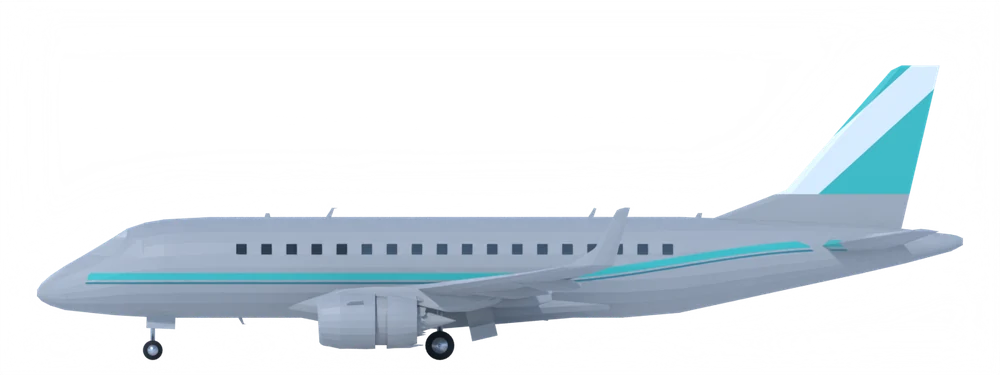
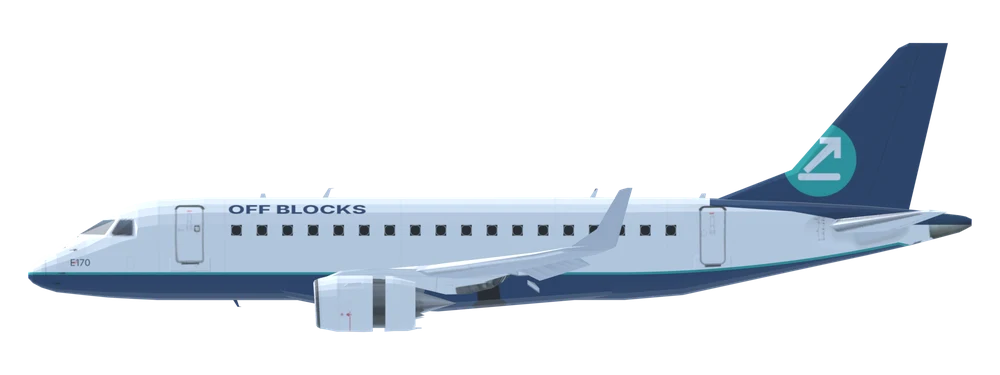
E-Jet family renders (E170/175/190/195/E190-E2/E195-E2) with Off Blocks livery
Claude-Session: https://claude.ai/code/session_01XrFePU9h1hCzy7p7tSHsYD

Changed region(s): [[0.031, 0.1173, 0.992, 0.968]]

diff --git a/sw.js b/sw.js
@@ -1,5 +1,5 @@
 /* Off Blocks service worker. Bump VER to push an update to installed copies. */
-const VER='ob-v45',CORE=["./", "index.html", "manifest.webmanifest", "network.json", "icons/icon-192.png", "icons/icon-512.png", "mapimg/detail.json", "mapimg/sat.webp", "mapimg/terrain.webp", "img/A19N.webp", "img/A19N_side.webp", "img/A20N.webp", "img/A20N_side.webp", "img/A21N.webp", "img/A21N_side.webp", "img/A21X.webp", "img/A21X_side.webp", "img/A306_side.webp", "img/A310.webp", "img/A310_side.webp", "img/A318.webp", "img/A318_side.webp", "img/A319.webp", "img/A319_side.webp", "img/A320.webp", "img/A320_side.webp", "img/A321.webp", "img/A321_side.webp", "img/A332_side.webp", "img/A333_side.webp", "img/A338.webp", "img/A338_side.webp", "img/A339.webp", "img/A339_side.webp", "img/A343_side.webp", "img/A346_side.webp", "img/A359_side.webp", "img/A35K.webp", "img/A35K_side.webp", "img/A388_side.webp", "img/AN24.webp", "img/AR21.webp", "img/AT42_side.webp", "img/AT76_side.webp", "img/B190.webp", "img/B37M.webp", "img/B37M_side.webp", "img/B38M.webp", "img/B38M_side.webp", "img/B39M.webp", "img/B39M_side.webp", "img/B3XM.webp", "img/B3XM_side.webp", "img/B712.webp", "img/B712_side.webp", "img/B722_side.webp", "img/B732.webp", "img/B732_side.webp", "img/B733_side.webp", "img/B734_side.webp", "img/B735.webp", "img/B735_side.webp", "img/B736_side.webp", "img/B737_side.webp", "img/B738_side.webp", "img/B739_side.webp", "img/B744_side.webp", "img/B748_side.webp", "img/B752.webp", "img/B752_side.webp", "img/B753.webp", "img/B753_side.webp", "img/B762.webp", "img/B762_side.webp", "img/B763_side.webp", "img/B764.webp", "img/B764_side.webp", "img/B772_side.webp", "img/B773.webp", "img/B773_side.webp", "img/B779.webp", "img/B779_side.webp", "img/B77L_side.webp", "img/B77W_side.webp", "img/B788_side.webp", "img/B789_side.webp", "img/B78X_side.webp", "img/BCS1_side.webp", "img/BCS3_side.webp", "img/C208.webp", "img/C208_side.webp", "img/C919.webp", "img/C919_side.webp", "img/CRJ2.webp", "img/CRJ2_side.webp", "img/CRJ7_side.webp", "img/CRJ9.webp", "img/CRJ9_side.webp", "img/CRJX_side.webp", "img/D328.webp", "img/DH8A.webp", "img/DH8A_side.webp", "img/DH8C_side.webp", "img/DH8D_side.webp", "img/DHC6_side.webp", "img/E120.webp", "img/E120_side.webp", "img/E135.webp", "img/E135_side.webp", "img/E140.webp", "img/E140_side.webp", "img/E145.webp", "img/E145_side.webp", "img/E170_side.webp", "img/E175_side.webp", "img/E190_side.webp", "img/E195.webp", "img/E195_side.webp", "img/E290_side.webp", "img/E295.webp", "img/E295_side.webp", "img/E75X.webp", "img/E75X_side.webp", "img/F100.webp", "img/F100_side.webp", "img/F50.webp", "img/F50_side.webp", "img/F70.webp", "img/F70_side.webp", "img/J41.webp", "img/L410.webp", "img/L410_side.webp", "img/MA60.webp", "img/MD83.webp", "img/MD83_side.webp", "img/MD90.webp", "img/MD90_side.webp", "img/RJ1H.webp", "img/RJ1H_side.webp", "img/RJ85.webp", "img/RJ85_side.webp", "img/SB20.webp", "img/SF34_side.webp", "img/T154.webp", "img/T154_side.webp"];
+const VER='ob-v46',CORE=["./", "index.html", "manifest.webmanifest", "network.json", "icons/icon-192.png", "icons/icon-512.png", "mapimg/detail.json", "mapimg/sat.webp", "mapimg/terrain.webp", "img/A19N.webp", "img/A19N_side.webp", "img/A20N.webp", "img/A20N_side.webp", "img/A21N.webp", "img/A21N_side.webp", "img/A21X.webp", "img/A21X_side.webp", "img/A306_side.webp", "img/A310.webp", "img/A310_side.webp", "img/A318.webp", "img/A318_side.webp", "img/A319.webp", "img/A319_side.webp", "img/A320.webp", "img/A320_side.webp", "img/A321.webp", "img/A321_side.webp", "img/A332_side.webp", "img/A333_side.webp", "img/A338.webp", "img/A338_side.webp", "img/A339.webp", "img/A339_side.webp", "img/A343_side.webp", "img/A346_side.webp", "img/A359_side.webp", "img/A35K.webp", "img/A35K_side.webp", "img/A388_side.webp", "img/AN24.webp", "img/AR21.webp", "img/AT42_side.webp", "img/AT76_side.webp", "img/B190.webp", "img/B37M.webp", "img/B37M_side.webp", "img/B38M.webp", "img/B38M_side.webp", "img/B39M.webp", "img/B39M_side.webp", "img/B3XM.webp", "img/B3XM_side.webp", "img/B712.webp", "img/B712_side.webp", "img/B722_side.webp", "img/B732.webp", "img/B732_side.webp", "img/B733_side.webp", "img/B734_side.webp", "img/B735.webp", "img/B735_side.webp", "img/B736_side.webp", "img/B737_side.webp", "img/B738_side.webp", "img/B739_side.webp", "img/B744_side.webp", "img/B748_side.webp", "img/B752.webp", "img/B752_side.webp", "img/B753.webp", "img/B753_side.webp", "img/B762.webp", "img/B762_side.webp", "img/B763_side.webp", "img/B764.webp", "img/B764_side.webp", "img/B772_side.webp", "img/B773.webp", "img/B773_side.webp", "img/B779.webp", "img/B779_side.webp", "img/B77L_side.webp", "img/B77W_side.webp", "img/B788_side.webp", "img/B789_side.webp", "img/B78X_side.webp", "img/BCS1_side.webp", "img/BCS3_side.webp", "img/C208.webp", "img/C208_side.webp", "img/C919.webp", "img/C919_side.webp", "img/CRJ2.webp", "img/CRJ2_side.webp", "img/CRJ7_side.webp", "img/CRJ9.webp", "img/CRJ9_side.webp", "img/CRJX_side.webp", "img/D328.webp", "img/DH8A.webp", "img/DH8A_side.webp", "img/DH8C_side.webp", "img/DH8D_side.webp", "img/DHC6_side.webp", "img/E120.webp", "img/E120_side.webp", "img/E135.webp", "img/E135_side.webp", "img/E140.webp", "img/E140_side.webp", "img/E145.webp", "img/E145_side.webp", "img/E170_side.webp", "img/E175_side.webp", "img/E190_side.webp", "img/E195.webp", "img/E195_side.webp", "img/E290_side.webp", "img/E295.webp", "img/E295_side.webp", "img/E75X.webp", "img/E75X_side.webp", "img/F100.webp", "img/F100_side.webp", "img/F50.webp", "img/F50_side.webp", "img/F70.webp", "img/F70_side.webp", "img/J41.webp", "img/L410.webp", "img/L410_side.webp", "img/MA60.webp", "img/MD83.webp", "img/MD83_side.webp", "img/MD90.webp", "img/MD90_side.webp", "img/RJ1H.webp", "img/RJ1H_side.webp", "img/RJ85.webp", "img/RJ85_side.webp", "img/SB20.webp", "img/SF34_side.webp", "img/T154.webp", "img/T154_side.webp"];
 self.addEventListener('install',e=>{e.waitUntil(caches.open(VER).then(c=>Promise.all(CORE.map(u=>c.add(u).catch(()=>0)))).then(()=>self.skipWaiting()))});
 self.addEventListener('activate',e=>{e.waitUntil(caches.keys().then(k=>Promise.all(k.filter(x=>x!==VER).map(x=>caches.delete(x)))).then(()=>self.clients.claim()))});
 self.addEventListener('fetch',e=>{const r=e.request,u=new URL(r.url);if(r.method!=='GET'||u.origin!==location.origin)return;

diff --git a/index.html b/index.html
@@ -180,7 +180,7 @@ const lvBase=src=>new Promise(res=>{if(LVI.base[src])return res(LVI.base[src]);c
 const PHOTOS_OFF={B39M:{src:'img/B39M_photo.webp',by:'Clemens Vasters',lic:'CC BY 2.0',lu:'https://creativecommons.org/licenses/by/2.0/',url:'https://commons.wikimedia.org/wiki/File:N7379E_-_Boeing_737_MAX_9.jpg',n:'Boeing 737 MAX 9'}};
 const PHOTOS={};
 /* types with a finished Off Blocks livery render: shown as-is, no repaint */
-const LVNAT={B38M:1,B39M:1,A318:1,A319:1,A320:1,A321:1,A19N:1,A20N:1,A21N:1,A21X:1,A332:1,A333:1,A338:1,A339:1,A343:1,A346:1,A359:1,A35K:1,B772:1,B773:1,B77L:1,B77W:1,B777:1,B779:1,B788:1,B789:1,B78X:1,B787:1,B752:1,B753:1,B762:1,B763:1,B764:1};
+const LVNAT={B38M:1,B39M:1,A318:1,A319:1,A320:1,A321:1,A19N:1,A20N:1,A21N:1,A21X:1,A332:1,A333:1,A338:1,A339:1,A343:1,A346:1,A359:1,A35K:1,B772:1,B773:1,B77L:1,B77W:1,B777:1,B779:1,B788:1,B789:1,B78X:1,B787:1,B752:1,B753:1,B762:1,B763:1,B764:1,E170:1,E175:1,E75L:1,E75X:1,E190:1,E195:1,E290:1,E295:1};
 const lvSrc=(c,v,l)=>LVI.cache[lvKey(c,v,l)]||'img/'+c+(v==='s'?'_side':'')+'.webp';
 /* natural white: the renders come out blue-grey, so lift and neutralise every light, low-saturation pixel (windows, gear and dark detail are left alone) */
 function lvRefL(d,A){const a=[];for(let i=0;i<A.length;i+=7){if(!A[i])continue;const j=i*4,r=d[j],g=d[j+1],b=d[j+2],mx=Math.max(r,g,b),lu=.3*r+.59*g+.11*b;if(lu>110&&(mx-Math.min(r,g,b))/(mx||1)<.36)a.push(lu)}if(!a.length)return 190;a.sort((p,q)=>p-q);return a[a.length>>1]}
